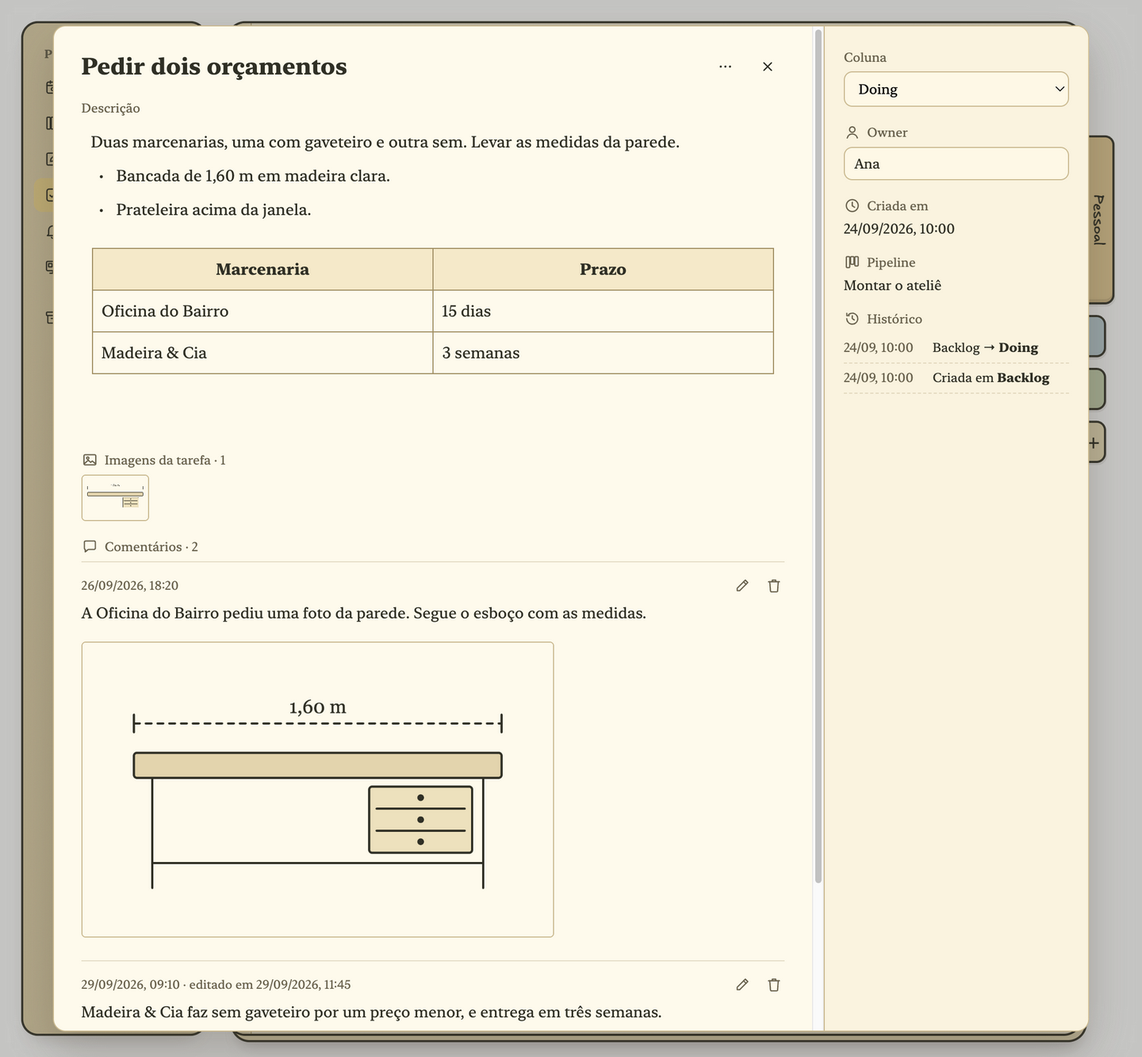
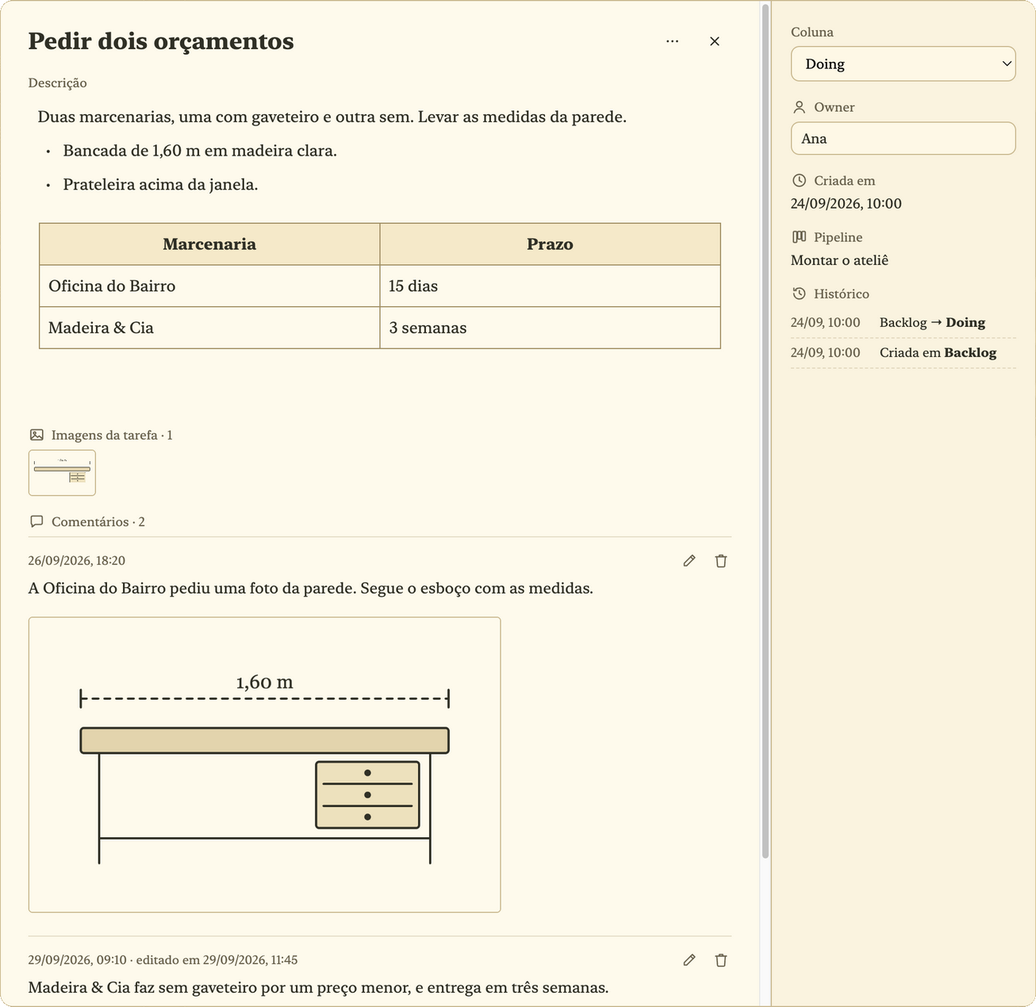
README and landing: plain-language copy, zoomable screenshots
Rewrite README and landing copy end to end for end users. Landing
screenshots open enlarged in a popup. The open-task screenshot is
cropped to the task window, without the dimmed page around it, and
the capture script now captures that dialog alone.

Claude-Session: https://claude.ai/code/session_01VGPbBx4BnHd9Spbo4GCmkr

Changed region(s): [[0.0, 0.0, 1.0, 1.0], [0.4594, 0.8605, 0.49, 0.8913]]

diff --git a/site/index.html b/site/index.html
@@ -3,8 +3,8 @@
 <head>
 <meta charset="utf-8">
 <meta name="viewport" content="width=device-width, initial-scale=1">
-<title>Caderninho · Notas que viram tarefas sem perder o contexto</title>
-<meta name="description" content="Um caderno para o Mac, feito para quem escreve em português. Selecione um trecho, transforme em tarefa ou lembrete, e a tarefa sempre sabe de onde veio.">
+<title>Caderninho · Suas notas, tarefas e quadros, tudo conectado</title>
+<meta name="description" content="Um caderno para o Mac, feito para quem escreve em português. A tarefa nasce da nota e continua ligada a ela, numa lista que mostra em que pé está cada coisa. Com quadros para as ideias que pedem espaço.">
 <link rel="canonical" href="https://fagnermourafeitosa.github.io/caderninho/">
 <link rel="icon" href="img/icon.png">
 <link rel="apple-touch-icon" href="img/icon.png">
@@ -13,14 +13,14 @@
 <meta property="og:locale" content="pt_BR">
 <meta property="og:site_name" content="Caderninho">
 <meta property="og:url" content="https://fagnermourafeitosa.github.io/caderninho/">
-<meta property="og:title" content="Caderninho · Notas que viram tarefas sem perder o contexto">
-<meta property="og:description" content="Um caderno para o Mac, feito para quem escreve em português. Selecione um trecho, transforme em tarefa ou lembrete, e a tarefa sempre sabe de onde veio.">
+<meta property="og:title" content="Caderninho · Suas notas, tarefas e quadros, tudo conectado">
+<meta property="og:description" content="Um caderno para o Mac, feito para quem escreve em português. A tarefa nasce da nota e continua ligada a ela, numa lista que mostra em que pé está cada coisa. Com quadros para as ideias que pedem espaço.">
 <meta property="og:image" content="https://fagnermourafeitosa.github.io/caderninho/img/og.jpg">
 <meta property="og:image:width" content="1200">
 <meta property="og:image:height" content="630">
 <meta property="og:image:alt" content="Caderninho: notas que viram tarefas sem perder o contexto, ao lado de uma nota com tarefas na margem.">
 <meta name="twitter:card" content="summary_large_image">
-<meta name="twitter:title" content="Caderninho · Notas que viram tarefas sem perder o contexto">
+<meta name="twitter:title" content="Caderninho · Suas notas, tarefas e quadros, tudo conectado">
 <meta name="twitter:description" content="Um caderno para o Mac, feito para quem escreve em português.">
 <meta name="twitter:image" content="https://fagnermourafeitosa.github.io/caderninho/img/og.jpg">
 <script type="application/ld+json">
@@ -28,7 +28,7 @@
   "@context": "https://schema.org",
   "@type": "SoftwareApplication",
   "name": "Caderninho",
-  "description": "Um caderno para o Mac, feito para quem escreve em português. Notas, listas de tarefas, lembretes e quadros, tudo conectado.",
+  "description": "Um caderno para o Mac, feito para quem escreve em português. A tarefa nasce da nota e continua ligada a ela, numa lista que mostra em que pé está cada coisa. Com quadros para as ideias que pedem espaço.",
   "url": "https://fagnermourafeitosa.github.io/caderninho/",
   "image": "https://fagnermourafeitosa.github.io/caderninho/img/og.jpg",
   "applicationCategory": "ProductivityApplication",
@@ -312,6 +312,14 @@ code{font:14px ui-monospace,"SF Mono",Menlo,monospace;background:var(--shade);pa
 footer .coffee{display:inline-flex;align-items:center;gap:5px;vertical-align:bottom}
 footer{display:flex;justify-content:space-between;flex-wrap:wrap;gap:10px;font-size:13px;color:var(--muted);padding:28px 0 36px;border-top:1px solid var(--hairline)}
 
+/* screenshot zoom */
+.real img{cursor:zoom-in}
+.zoom{border:0;padding:0;background:transparent;max-width:min(1440px,96vw);max-height:94vh;overflow:visible}
+.zoom::backdrop{background:rgba(48,48,37,.72)}
+.zoom img{display:block;max-width:min(1440px,96vw);max-height:86vh;width:auto;height:auto;cursor:zoom-out;border-radius:10px;filter:drop-shadow(0 20px 40px rgba(0,0,0,.35))}
+.zoom button{position:fixed;top:16px;right:16px;width:40px;height:40px;border-radius:50%;border:1px solid var(--hairline);background:var(--sheet);color:var(--ink);font:22px/1 var(--serif);cursor:pointer}
+.zoom figcaption{color:var(--paper);font-size:14px;margin-top:10px;text-align:center}
+
 /* ---------- responsive ---------- */
 @media (max-width:1100px){
   .book{grid-template-columns:minmax(0,1fr)}
@@ -394,55 +402,55 @@ footer{display:flex;justify-content:space-between;flex-wrap:wrap;gap:10px;font-s
 
     <div class="captions">
       <div class="cap" data-for="0">
-        <h1 class="sr">Caderninho: notas que viram tarefas sem perder o contexto</h1>
-        <p>Notas, listas de tarefas e quadros num caderno só, <mark>tudo conectado</mark>.</p>
+        <h1 class="sr">Caderninho: suas notas, tarefas e quadros, tudo conectado</h1>
+        <p>Um caderno para o Mac em que cada tarefa <mark>lembra de onde veio</mark>.</p>
         <div class="meta"><span>macOS · interface em português</span><span>Sem conta e sem nuvem</span></div>
         <div class="scroll"><span>↓</span> role para ver funcionando</div>
       </div>
       <div class="cap" data-for="1">
         <p>Você escreve “pedir dois orçamentos” numa nota sobre a reforma da cozinha.</p>
-        <p class="small">Uma nota comum, no meio de outras coisas que você pensou.</p>
+        <p class="small">Uma nota qualquer, no meio de outras coisas que você pensou.</p>
       </div>
       <div class="cap" data-for="2">
-        <p>Selecione o trecho e transforme em tarefa ou lembrete.</p>
-        <p class="small">Também pelo menu de contexto, pela margem ou começando a linha com <code>[]</code>. Imagens e cartões de link também podem originar ações.</p>
+        <p>Marque a frase e transforme em tarefa.</p>
+        <p class="small">Ou comece a linha com <code>[]</code>, sem parar de escrever. Imagens e links colados na nota também viram tarefas.</p>
       </div>
       <div class="cap" data-for="3">
         <p>Escolha em qual lista ela entra.</p>
-        <p class="small">O trecho vira o título, e a lista mais recente do caderno já vem escolhida.</p>
+        <p class="small">A frase vira o título, e a lista mais recente do caderno já vem escolhida.</p>
       </div>
       <div class="cap" data-for="4">
         <p>A tarefa fica ao lado da frase que a criou.</p>
-        <p class="small">A margem mostra em que etapa ela está. Uma nota pode ter várias tarefas e vários alertas.</p>
+        <p class="small">Dali dá para ver em que etapa ela está. Uma nota pode ter quantas tarefas e lembretes você quiser.</p>
       </div>
       <div class="cap" data-for="5">
         <div class="when">três semanas depois…</div>
-        <p>Na lista, cada coluna é uma etapa. Terminou? Arraste a tarefa para a última.</p>
-        <p class="small">Dá para ver de relance em que pé está cada coisa. As etapas são suas: renomeie, mude de lugar, crie ou remova.</p>
+        <p>Na lista, cada coluna é uma etapa. Andou? Arraste a tarefa para a frente.</p>
+        <p class="small">De relance, você vê em que pé está cada coisa. As etapas são suas: renomeie, reordene, crie ou remova.</p>
       </div>
       <div class="cap" data-for="6">
         <p>Cada tarefa guarda os detalhes, a conversa e o caminho que fez.</p>
-        <p class="small">Descrição com listas, tabelas e imagens, comentários, quem está cuidando e cada mudança de etapa.</p>
+        <p class="small">Listas, tabelas e imagens, comentários, quem está cuidando e cada etapa por onde passou.</p>
       </div>
       <div class="cap" data-for="7">
-        <p>De volta à nota, o destaque ficou verde.</p>
+        <p>Na nota, a frase ficou verde: está feito.</p>
         <p class="small">A nota continua contando o que foi feito, e por quê.</p>
       </div>
       <div class="cap" data-for="8">
-        <p>Todo dia começa uma página nova.</p>
-        <p class="small">A última nota com as páginas ligadas a ela, a lista de tarefas mais recente e os lembretes de hoje.</p>
+        <p>Todo dia começa com uma página que junta o que importa.</p>
+        <p class="small">A última nota e as páginas ligadas a ela, a lista de tarefas mais recente e os lembretes de hoje.</p>
       </div>
       <div class="cap" data-for="9">
-        <p>Os dias anteriores ficam exatamente como estavam.</p>
-        <p class="small">Somente leitura: o que estava agendado e as notas daquele dia. Um diário que você nunca precisou escrever.</p>
+        <p>Os dias anteriores ficam guardados como estavam.</p>
+        <p class="small">O que estava agendado e as notas daquele dia. Um diário que você nunca precisou escrever.</p>
       </div>
       <div class="cap" data-for="10">
         <p>E quadros para as ideias que pedem espaço.</p>
-        <p class="small">Um mural sem fim para post-its, setas, fluxos e organogramas, no mesmo caderno das notas e das tarefas. Tudo conectado.</p>
+        <p class="small">Um mural sem fim para post-its, setas e organogramas, no mesmo caderno das notas e das tarefas.</p>
       </div>
       <div class="cap" data-for="11">
-        <p>Feito em português desde o início, não traduzido.</p>
-        <p class="small">Datas escritas na nota ganham um selo <b>Agendar</b>, e nada é agendado até você clicar. Hashtags viram categorias. A busca ignora acentos.</p>
+        <p>Pensado em português, não traduzido.</p>
+        <p class="small">Escreva “amanhã às 14h” e aparece um botão <b>Agendar</b>. Hashtags viram categorias. A busca não se importa com acentos.</p>
       </div>
       <div class="dots" id="dots" aria-hidden="true"></div>
     </div>
@@ -604,45 +612,43 @@ footer{display:flex;justify-content:space-between;flex-wrap:wrap;gap:10px;font-s
 
 <div class="sheet">
   <section class="real wrap">
-    <h2>Esse é o app de verdade</h2>
-    <p class="lead">A cena acima é uma recriação. Estas são capturas do Caderninho rodando, com exemplos fictícios.</p>
+    <h2>Este é o app de verdade</h2>
+    <p class="lead">A cena acima é uma recriação. Estas são telas do Caderninho funcionando, com exemplos inventados. Clique numa imagem para ampliar.</p>
     <div class="shots">
-      <figure><img src="img/acoes-na-nota.webp" width="1440" height="1333" loading="lazy" alt="Uma nota com três trechos destacados e, na margem, as ações criadas a partir deles: uma tarefa em Doing, uma concluída com o selo verde Done e um alerta."><figcaption>Uma nota com tarefas e um lembrete na margem.</figcaption></figure>
-      <figure><img src="img/kanban.webp" width="1440" height="926" loading="lazy" alt="Lista de tarefas Montar o ateliê organizada em cinco colunas, de Backlog a Done, com a data de criação e o número de comentários em cada tarefa."><figcaption>Uma lista de tarefas, com uma coluna para cada etapa.</figcaption></figure>
+      <figure><img src="img/acoes-na-nota.webp" width="1440" height="1333" loading="lazy" alt="Uma nota com três frases destacadas e, ao lado, o que nasceu delas: uma tarefa em andamento, uma concluída em verde e um lembrete."><figcaption>Uma nota com as tarefas e o lembrete que nasceram dela.</figcaption></figure>
+      <figure><img src="img/kanban.webp" width="1440" height="926" loading="lazy" alt="Lista de tarefas Montar o ateliê dividida em cinco colunas, com a data de criação e o número de comentários em cada tarefa."><figcaption>Uma lista de tarefas, com uma coluna para cada etapa.</figcaption></figure>
     </div>
     <div class="shots">
-      <figure><img src="img/tarefa.webp" width="1440" height="1333" loading="lazy" alt="Tarefa aberta com descrição em lista e tabela, miniatura da imagem, comentários (um deles editado) e, ao lado, a etapa, o responsável, a data de criação e o histórico."><figcaption>Uma tarefa aberta, com os detalhes e a conversa.</figcaption></figure>
-      <figure><img src="img/pagina-do-dia.webp" width="1440" height="1543" loading="lazy" alt="Página do dia com a nota mais recente, seguida da lista de tarefas mais recente, dos lembretes e das últimas notas."><figcaption>A página do dia, com a lista de tarefas mais recente.</figcaption></figure>
+      <figure><img src="img/tarefa.webp" width="1306" height="1269" loading="lazy" alt="Tarefa aberta com detalhes em lista e tabela, uma imagem, comentários (um deles editado) e, ao lado, a etapa atual, o responsável, a data de criação e o histórico."><figcaption>Uma tarefa aberta, com os detalhes e a conversa.</figcaption></figure>
+      <figure><img src="img/pagina-do-dia.webp" width="1440" height="1543" loading="lazy" alt="Página do dia com a última nota, a lista de tarefas mais recente, os lembretes de hoje e as últimas notas."><figcaption>A página do dia.</figcaption></figure>
     </div>
-    <figure class="wide"><img src="img/quadro.webp" width="1440" height="1200" loading="lazy" alt="Quadro Ideias para o ateliê com post-its coloridos ligados por setas, um título escrito à mão e as ferramentas de desenho à esquerda."><figcaption>Um quadro com post-its e setas.</figcaption></figure>
+    <figure class="wide"><img src="img/quadro.webp" width="1440" height="1200" loading="lazy" alt="Quadro Ideias para o ateliê com post-its coloridos ligados por setas e um título escrito à mão."><figcaption>Um quadro com post-its e setas.</figcaption></figure>
   </section>
 
   <section class="fine wrap">
     <div class="cols2">
       <div>
-        <h2>O que mais ajuda</h2>
-        <h3>Páginas relacionadas, calculadas no seu Mac</h3>
-        <p>A cada salvamento, o Caderninho compara a página com as outras do mesmo caderno, por categorias, palavras e significado, inclusive o texto dentro de imagens. Nenhum texto sai do seu computador. <kbd>⌥⌘R</kbd> abre o grafo.</p>
+        <h2>Mais coisas que ajudam</h2>
+        <h3>Páginas relacionadas</h3>
+        <p>Enquanto você escreve, o Caderninho encontra no mesmo caderno as notas, listas, quadros e lembretes que falam do mesmo assunto, inclusive pelo texto dentro de imagens. <kbd>⌥⌘R</kbd> mostra todas num mapa. Tudo é calculado no seu Mac.</p>
         <h3>Referências ao lado da ideia</h3>
-        <p>Imagens, PDFs e cartões de link ficam ao lado do parágrafo a que pertencem, e os links continuam funcionando sem internet.</p>
-        <h3>Quadros, no mesmo caderno</h3>
-        <p>Um mural sem fim para post-its, setas, fluxos e organogramas, com traço de mão. O texto do quadro aparece na busca e nas páginas relacionadas, e ele pode ser exportado em PNG ou SVG.</p>
-        <h3>Diagramas como texto</h3>
-        <p>Digite <code>/diagrama</code> e escreva um fluxograma, uma sequência ou uma linha do tempo em Mermaid. Ele é desenhado com traço de mão dentro da nota.</p>
+        <p>Imagens, PDFs e links ficam ao lado do parágrafo a que pertencem, e os links continuam visíveis mesmo sem internet.</p>
+        <h3>Diagramas escritos</h3>
+        <p>Digite <code>/diagrama</code> e escreva um fluxo, uma sequência ou uma linha do tempo em texto simples. O Caderninho desenha o diagrama dentro da nota, com traço de mão.</p>
       </div>
       <div>
-        <h2>Seus dados, numa pasta</h2>
-        <p>Notas, listas de tarefas, lembretes, quadros e categorias ficam num banco SQLite, com imagens e PDFs ao lado:</p>
+        <h2>Seus dados ficam com você</h2>
+        <p>Não há conta nem nuvem. Tudo fica numa pasta do seu Mac:</p>
         <div class="path">~/Library/Application Support/caderninho/</div>
-        <p>Não há conta nem sincronização na nuvem. Para fazer backup, feche o app e copie a pasta. Notas e lembretes viram PDF com <kbd>⇧⌘E</kbd>; quadros, PNG ou SVG.</p>
-        <p class="muted">As únicas requisições de rede são as que você dispara: a prévia de um link que você colou e o download, uma única vez, do modelo das páginas relacionadas.</p>
-        <h3>Limites</h3>
+        <p>Para fazer backup, feche o app e copie essa pasta. Notas e lembretes podem ser salvos em PDF com <kbd>⇧⌘E</kbd>, e quadros, como imagem.</p>
+        <p class="muted">O app só acessa a internet quando você pede: para mostrar a prévia de um link que você colou e, uma única vez, para baixar o que faz as páginas relacionadas funcionarem.</p>
+        <h3>O que ele ainda não faz</h3>
         <ul class="limits">
-          <li>Só para macOS, com interface em português.</li>
-          <li>Os lembretes só tocam com o app aberto, mesmo minimizado. Um alerta perdido toca quando o app volta.</li>
-          <li>Sem sincronização entre computadores e sem versão para celular.</li>
+          <li>Só funciona no Mac, e a interface é em português.</li>
+          <li>Os lembretes só tocam com o app aberto (pode estar minimizado). Se ele estiver fechado, o alerta toca quando você voltar.</li>
+          <li>Não sincroniza entre computadores e não tem versão para celular.</li>
           <li>Ainda não importa notas de outros apps.</li>
-          <li>Listas de tarefas não viram PDF, e cada tarefa não tem categorias próprias.</li>
+          <li>Listas de tarefas não são salvas em PDF.</li>
         </ul>
       </div>
     </div>
@@ -661,6 +667,8 @@ footer{display:flex;justify-content:space-between;flex-wrap:wrap;gap:10px;font-s
   <footer class="wrap"><span>Caderninho · <a href="https://github.com/fagnermourafeitosa/caderninho">código no GitHub</a> · <a class="coffee" href="https://buymeacoffee.com/caderninho"><img src="img/bmc-logo.svg" alt="" style="height:14px;width:auto">Me pague um café</a></span><span>As capturas de tela mostram o app real com exemplos fictícios.</span></footer>
 </div>
 </main>
+
+<dialog class="zoom" id="zoom" aria-label="Captura ampliada"><button type="button" aria-label="Fechar">×</button><img alt=""><figcaption></figcaption></dialog>
 
 <script>
 (() => {
@@ -733,7 +741,7 @@ footer{display:flex;justify-content:space-between;flex-wrap:wrap;gap:10px;font-s
     return token === typeToken;
   }
 
-  const HERO_T = 'Notas que viram tarefas sem perder o contexto.';
+  const HERO_T = 'Suas notas, tarefas e quadros, tudo conectado.';
   const HERO_L = 'Um caderno para o Mac, feito para quem escreve em português.';
   let heroTyped = false;
   async function heroIntro() {
@@ -848,6 +856,16 @@ footer{display:flex;justify-content:space-between;flex-wrap:wrap;gap:10px;font-s
     const p = Math.min(1, Math.max(0, -r.top / total));
     render(Math.min(STEPS - 1, Math.floor(p * STEPS)));
   }
+  // ---------- screenshot zoom ----------
+  const zoom = $('#zoom'), zoomImg = zoom.querySelector('img'), zoomCaption = zoom.querySelector('figcaption');
+  document.querySelectorAll('.real img').forEach(img => {
+    img.tabIndex = 0; img.setAttribute('role', 'button'); img.title = 'Clique para ampliar';
+    const show = () => { zoomImg.src = img.currentSrc || img.src; zoomImg.alt = img.alt; zoomCaption.textContent = img.closest('figure')?.querySelector('figcaption')?.textContent || ''; zoom.showModal(); };
+    img.addEventListener('click', show);
+    img.addEventListener('keydown', event => { if (event.key === 'Enter' || event.key === ' ') { event.preventDefault(); show(); } });
+  });
+  zoom.addEventListener('click', () => zoom.close());
+
   addEventListener('scroll', onScroll, { passive: true });
   const topBar = document.querySelector('.top'), firstSheet = document.querySelector('.sheet');
   const onTopBar = () => topBar.classList.toggle('solid', !!firstSheet && firstSheet.getBoundingClientRect().top < topBar.offsetHeight);

diff --git a/README.md b/README.md
@@ -5,7 +5,7 @@
 <h1 align="center">Caderninho</h1>
 
 <p align="center">
-  Notas que viram tarefas sem perder o contexto.<br>
+  Suas notas, tarefas e quadros, tudo conectado.<br>
   Um caderno para o Mac, feito para quem escreve em português.
 </p>
 
@@ -19,88 +19,91 @@
   <a href="https://buymeacoffee.com/caderninho"><img src="site/img/bmc-button.svg" alt="Buy me a coffee" height="44"></a>
 </p>
 
-Você escreve "pedir dois orçamentos" numa nota sobre a reforma da cozinha. Três semanas depois, a tarefa está numa lista e ninguém lembra de qual reforma era, quais orçamentos, nem por quê.
+Você escreve "pedir dois orçamentos" numa nota sobre a reforma da cozinha. Três semanas depois, a tarefa está perdida numa lista, e ninguém lembra de qual reforma era, quais orçamentos, nem por quê.
 
-No Caderninho, a tarefa nasce da própria nota e continua ligada a ela. Selecione um trecho, transforme em tarefa, e ela entra numa lista onde dá para ver, de relance, em que pé está cada coisa: o que ainda nem começou, o que está andando e o que já terminou. A nota mostra a situação da tarefa, e a tarefa sempre sabe de onde veio.
+No Caderninho, a tarefa nasce da nota e continua ligada a ela. Você marca a frase, transforma em tarefa e segue escrevendo. A tarefa vai para uma lista onde dá para ver, de relance, em que pé está cada coisa. A nota mostra o andamento da tarefa, e a tarefa sempre sabe de onde veio.
 
-Para as ideias que pedem espaço, há os quadros: murais sem fim para post-its, setas, fluxos e organogramas. Notas, tarefas, lembretes e quadros ficam no mesmo caderno, tudo conectado.
+Para as ideias que pedem mais espaço, há os quadros: um mural sem fim para post-its, setas e organogramas. Notas, tarefas, lembretes e quadros ficam no mesmo caderno, tudo conectado.
 
-![Uma nota com duas tarefas e um lembrete na margem, cada um ligado ao trecho destacado de onde veio; a tarefa concluída mostra o selo verde da coluna Done](docs/images/acoes-na-nota.png)
+![Uma nota com duas tarefas e um lembrete ao lado, cada um ligado à frase destacada de onde veio; a tarefa concluída aparece em verde](docs/images/acoes-na-nota.png)
 
-## Tarefas que lembram por que existem
+## Da nota para a tarefa, sem perder o fio
 
-Na maioria dos apps, a nota e a lista de tarefas são coisas separadas. Copie uma linha de uma para a outra e a lista perde o contexto.
+Na maioria dos apps, a nota fica de um lado e a lista de tarefas do outro. Você copia uma linha de um lugar para o outro e, no caminho, perde o porquê.
 
-No Caderninho, você seleciona o trecho e cria a partir dele uma **tarefa** ou um **lembrete**. A tarefa entra numa das suas listas e aparece ao lado da nota, na margem, com uma cópia do trecho e a etapa em que está. O trecho fica destacado e ganha verde quando a tarefa termina. Imagens e cartões de link também podem virar tarefas.
+No Caderninho, você seleciona uma frase e escolhe **Tarefa** ou **Lembrete**. A tarefa aparece ao lado da nota, com a frase que a originou e a etapa em que está. A frase fica destacada na nota e fica verde quando a tarefa termina.
 
-- Comece uma linha com `[]` para criar uma tarefa sem parar de escrever. A linha passa a mostrar a etapa da tarefa.
-- Seja pela seleção, pela margem, pelo botão direito ou por `[]`, abre o mesmo formulário **Nova tarefa**, com o título já preenchido e a lista mais recente do caderno escolhida.
-- Os lembretes aparecem no calendário e tocam um alerta no horário marcado; **Ver origem**, na margem, abre a nota e destaca o trecho.
-- Uma nota pode ter várias tarefas e vários alertas independentes.
-- Se você reescrever ou apagar o trecho depois, a ação guarda a cópia e a margem avisa que não encontra mais o original.
+- Para criar uma tarefa sem parar de escrever, comece a linha com `[]`.
+- O título já vem preenchido, e a lista mais recente do caderno já vem escolhida.
+- Imagens e links colados na nota também podem virar tarefas.
+- Os lembretes aparecem no calendário e tocam um alerta na hora marcada. **Ver origem** leva de volta à frase.
+- Uma nota pode ter quantas tarefas e lembretes você quiser.
+- Se você reescrever a frase depois, a tarefa guarda a versão original e avisa que ela mudou.
 
 ## Listas que mostram em que pé está cada coisa
 
-Em **Tarefas**, cada lista é organizada em colunas, uma para cada etapa do trabalho. Ela já começa com cinco etapas (**Backlog**, **Ready to Dev**, **Doing**, **Review** e **Done**), e você pode renomear, mudar de lugar, criar e remover etapas do jeito que fizer sentido para você. Para avançar uma tarefa, arraste-a para a próxima coluna; quando ela chega à última, está concluída. Basta olhar a lista para saber o que falta.
+Em **Tarefas**, cada lista é dividida em colunas, uma para cada etapa: o que ainda nem começou, o que está andando, o que está para revisar e o que já terminou. Ela já vem com cinco etapas prontas, e você pode renomear, reordenar, criar ou remover etapas do seu jeito. Para avançar uma tarefa, arraste-a para a coluna seguinte; quando ela chega à última, está concluída.
 
-![Lista de tarefas "Montar o ateliê" organizada em cinco colunas, de Backlog a Done, com a data de criação e o número de comentários em cada tarefa](docs/images/kanban.png)
+![Lista de tarefas "Montar o ateliê" dividida em cinco colunas, com a data de criação e o número de comentários em cada tarefa](docs/images/kanban.png)
 
-Clique numa tarefa para ver tudo sobre ela: a descrição, com listas, tabelas e imagens; os comentários, que você pode editar ou apagar; quem está cuidando dela; e o caminho que ela fez de uma etapa para outra.
+Clique numa tarefa para ver tudo sobre ela: os detalhes, com listas, tabelas e imagens; os comentários, que você pode editar ou apagar; quem está cuidando dela; e cada etapa por onde ela passou.
 
-![Tarefa aberta com descrição em lista e tabela, miniatura da imagem, dois comentários (um deles editado) e, ao lado, a etapa, o responsável, a data de criação e o histórico](docs/images/tarefa.png)
+![Tarefa aberta com detalhes em lista e tabela, uma imagem, dois comentários (um deles editado) e, ao lado, a etapa atual, o responsável, a data de criação e o histórico](docs/images/tarefa.png)
 
-## Uma página do dia que guarda o registro
+## Quadros para pensar no papel
 
-**Caderninho**, a primeira tela, mostra em faixas que você pode recolher: a nota editada mais recentemente no caderno com as páginas relacionadas a ela, a lista de tarefas mais recente (dá para avançar as tarefas ali mesmo), os lembretes de hoje e as últimas notas.
+Algumas ideias não cabem em linhas. No quadro, você espalha post-its, liga tudo com setas, desenha fluxos e organogramas, solta imagens e escreve onde quiser, com traço de mão, num papel pontilhado sem fim. O quadro fica no mesmo caderno das notas e das tarefas, e o que você escreve nele aparece na busca.
 
-![Página do dia com a nota mais recente, seguida da lista de tarefas mais recente, dos lembretes e das últimas notas](docs/images/pagina-do-dia.png)
+![Quadro "Ideias para o ateliê" com post-its coloridos ligados por setas e um título escrito à mão](docs/images/quadro.png)
 
-No dia seguinte começa uma página nova. Os dias anteriores continuam disponíveis no seletor de datas, somente para leitura, exatamente como estavam: o que estava agendado e as notas daquele dia. Funciona como um diário que você nunca precisou escrever.
+## O seu dia numa página
+
+A primeira tela, **Caderninho**, junta o que importa hoje: a última nota em que você mexeu e as páginas ligadas a ela, a lista de tarefas mais recente (dá para avançar as tarefas ali mesmo), os lembretes do dia e as últimas notas. Cada parte pode ser recolhida.
+
+![Página do dia com a última nota, a lista de tarefas mais recente, os lembretes de hoje e as últimas notas](docs/images/pagina-do-dia.png)
+
+No dia seguinte começa uma página nova, e as anteriores ficam guardadas como estavam: o que estava agendado e as notas daquele dia. É um diário que você nunca precisou escrever.
 
 ## Feito em português desde o início
 
-A interface, a leitura de datas e a busca foram construídas para o português, não traduzidas para ele.
+O Caderninho foi pensado em português, não traduzido para ele.
 
-- Datas escritas na nota, como `amanhã às 14h` ou `05/10/2027 às 14:30`, ganham um selo **Agendar**. Nada é agendado até você clicar nele.
-- A busca e as sugestões de categoria ignoram acentos e maiúsculas: `reuniao` encontra `reunião`.
-- Hashtags como `#orçamento` viram categorias enquanto você digita.
+- Escreva `amanhã às 14h` ou `05/10/2027 às 14:30` numa nota e aparece um botão **Agendar**. Nada é agendado até você clicar.
+- A busca não se importa com acentos nem maiúsculas: `reuniao` encontra `reunião`.
+- Escreva `#orçamento` e a nota ganha essa categoria na hora.
 
-## O que mais ajuda
+## Mais coisas que ajudam
 
-**Páginas relacionadas, calculadas no seu Mac.** A cada salvamento, o Caderninho compara a página com as outras notas, listas de tarefas, quadros e lembretes do mesmo caderno, por categorias em comum, palavras em comum e significado, incluindo o texto dentro de imagens. As duas páginas mais próximas aparecem no fim da nota, e o grafo (**⌥⌘R**) mostra o restante. Nenhum texto ou imagem sai do seu computador.
+**Páginas relacionadas.** Enquanto você escreve, o Caderninho encontra no mesmo caderno as notas, listas, quadros e lembretes que falam do mesmo assunto, inclusive pelo texto dentro de imagens. As duas mais próximas aparecem no fim da nota, e **⌥⌘R** mostra todas num mapa. Tudo é calculado no seu Mac; nada é enviado para fora.
 
-![Grafo de páginas relacionadas a uma nota de viagem: uma lista de bagagem, uma nota de trilha, um lembrete sobre o tempo e outras notas](docs/images/relacionados.png)
+![Mapa de páginas relacionadas a uma nota de viagem: uma nota de trilha, uma lista de preparativos e um lembrete sobre o tempo](docs/images/relacionados.png)
 
-**Referências ao lado da ideia.** Imagens, PDFs e cartões de link ficam ao lado do parágrafo a que pertencem, com o texto contornando. Os arquivos são copiados para o app, e os cartões de link continuam funcionando sem internet.
+**Referências ao lado da ideia.** Imagens, PDFs e links ficam ao lado do parágrafo a que pertencem, com o texto em volta. Tudo é guardado no app, e os links continuam visíveis mesmo sem internet.
 
-![Nota de viagem com uma paisagem à direita e um cartão de link à esquerda, com o texto contornando os dois](docs/images/colagem.png)
+![Nota de viagem com uma paisagem à direita e um link à esquerda, com o texto em volta dos dois](docs/images/colagem.png)
 
-**Quadros para pensar no papel.** Um mural sem fim para post-its, setas, fluxos, organogramas, imagens e texto solto, com traço de mão. O quadro fica no mesmo caderno das notas e das tarefas: o texto dele aparece na busca e nas páginas relacionadas, e ele pode ser exportado em PNG ou SVG.
+**Diagramas escritos.** Digite `/diagrama` e escreva um fluxo, uma sequência ou uma linha do tempo em texto simples ([Mermaid](https://mermaid.js.org)). O Caderninho desenha o diagrama dentro da nota, com traço de mão.
 
-![Quadro "Ideias para o ateliê" com post-its coloridos ligados por setas, um título escrito à mão e as ferramentas de desenho à esquerda](docs/images/quadro.png)
+## Seus dados ficam com você
 
-**Diagramas como texto.** Digite `/diagrama` para escrever um fluxograma, uma sequência, um mapa mental ou uma linha do tempo em [Mermaid](https://mermaid.js.org). O diagrama é desenhado com traço de mão dentro da nota, e a busca encontra as palavras dele.
-
-## Seus dados, numa pasta
-
-Notas, listas de tarefas, lembretes, quadros e categorias ficam num banco SQLite; imagens e PDFs ficam ao lado dele:
+Não há conta nem nuvem. Tudo fica numa pasta do seu Mac:
 
 ```text
 ~/Library/Application Support/caderninho/
 ```
 
-Não há conta nem sincronização na nuvem. Para fazer backup, feche o app e copie essa pasta. Notas e lembretes podem ser exportados em PDF (**⇧⌘E**) com a formatação, as imagens, os diagramas e os lembretes ligados a eles; quadros, em PNG ou SVG.
+Para fazer backup, feche o app e copie essa pasta. Notas e lembretes podem ser salvos em PDF (**⇧⌘E**), e quadros, como imagem (PNG ou SVG).
 
-As únicas requisições de rede são as que você dispara: buscar a prévia de um link no site que você colou e baixar uma única vez o modelo usado pelas páginas relacionadas.
+O app só acessa a internet quando você pede: para mostrar a prévia de um link que você colou e, uma única vez, para baixar o que faz as páginas relacionadas funcionarem.
 
-## Limites
+## O que ele ainda não faz
 
-- Só para macOS, com interface em português.
-- Os lembretes só tocam com o app aberto (pode estar minimizado). Um alerta perdido com o app fechado ou o Mac em repouso toca quando o app volta.
-- Sem sincronização entre computadores e sem versão para celular.
-- Listas de tarefas não são exportadas em PDF, e cada tarefa não tem categorias nem páginas relacionadas próprias.
+- Só funciona no Mac, e a interface é em português.
+- Os lembretes só tocam com o app aberto (pode estar minimizado). Se o app estiver fechado ou o Mac dormindo, o alerta toca quando você voltar.
+- Não sincroniza entre computadores e não tem versão para celular.
+- Listas de tarefas não são salvas em PDF.
 - Ainda não importa notas de outros apps.
-- As páginas relacionadas são buscadas dentro do mesmo caderno, não entre cadernos.
+- As páginas relacionadas são procuradas dentro do mesmo caderno, não entre cadernos.
 
 ---
 
